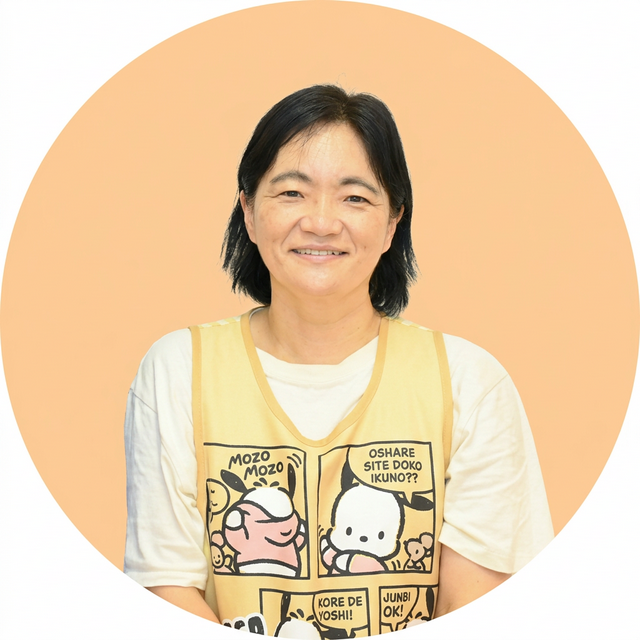
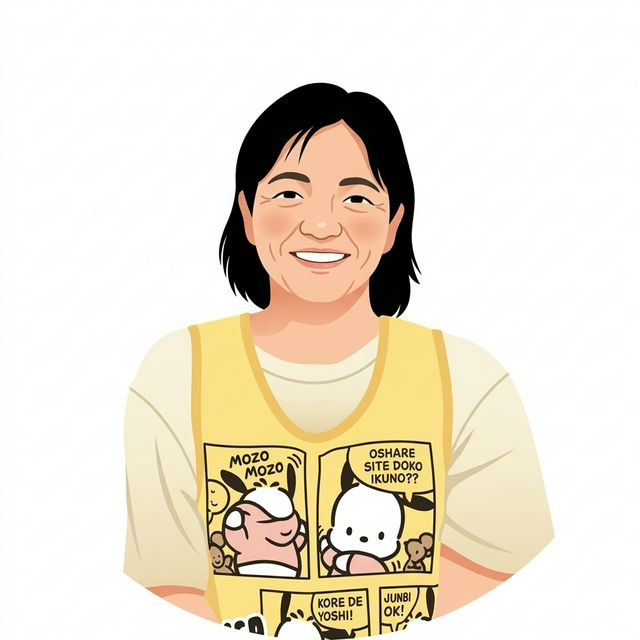
feat: design updates to about.html and index.html, change manager photos to illustrations

diff --git a/index.html b/index.html
@@ -71,43 +71,31 @@
         <p>一人ひとりの笑顔がかがやく場所</p>
       </section>
 
-        <!-- Latest News Section -->
-        <section id="news" class="card fade-in">
-          <h2 class="card-title">
-            <i class="fa-solid fa-bell" style="color: var(--primary-color);"></i> 最新ニュース
-          </h2>
-          <div class="news-list-container">
-            <div class="news-item">
-              <span class="news-date">2026.04.01</span>
-              <span class="news-title">新しいホームページを公開しました！</span>
-            </div>
-            <div class="news-item">
-              <span class="news-date">2026.03.25</span>
-              <span class="news-title">令和8年度 入園見学会のお知らせ</span>
-            </div>
-            <div class="news-item">
-              <span class="news-date">2026.03.10</span>
-              <span class="news-title">春の親子遠足について</span>
-            </div>
-            <div class="news-item">
-              <span class="news-date">2026.02.28</span>
-              <span class="news-title">「すくすく通信」3月号を掲載しました</span>
-            </div>
+      <!-- Latest News Section -->
+      <section id="news" class="card fade-in">
+        <h2 class="card-title">
+          <i class="fa-solid fa-bell" style="color: var(--primary-color);"></i> 最新ニュース
+        </h2>
+        <div class="news-list-container">
+          <div class="news-item">
+            <span class="news-date">2026.04.01</span>
+            <span class="news-title">新しいホームページを公開しました！</span>
           </div>
-        </section>
+        </div>
+      </section>
 
-        <!-- Instagram Section -->
-        <section id="instagram" class="card fade-in" style="padding-left: 1rem; padding-right: 1rem;">
-          <div class="insta-header">
-            <h2 class="insta-title-main"><i class="fa-brands fa-instagram"></i>日々の様子はInstagramで！</h2>
-          </div>
+      <!-- Instagram Section -->
+      <section id="instagram" class="card fade-in" style="padding-left: 1rem; padding-right: 1rem;">
+        <div class="insta-header">
+          <h2 class="insta-title-main"><i class="fa-brands fa-instagram"></i>日々の様子はInstagramで！</h2>
+        </div>
 
-          <div class="elfsight-app-5ca52e6a-f6e7-4073-9e24-0e0b05ff27c8" data-elfsight-app-lazy></div>
+        <div class="elfsight-app-5ca52e6a-f6e7-4073-9e24-0e0b05ff27c8" data-elfsight-app-lazy></div>
 
-          <a href="https://www.instagram.com/sukusukuseya/" class="btn btn-instagram" target="_blank">
-            <i class="fa-brands fa-instagram"></i> 公式Instagramを見る
-          </a>
-        </section>
+        <a href="https://www.instagram.com/sukusukuseya/" class="btn btn-instagram" target="_blank">
+          <i class="fa-brands fa-instagram"></i> 公式Instagramを見る
+        </a>
+      </section>
 
       <!-- Access Section -->
       <!-- Access Section -->

diff --git a/about.html b/about.html
@@ -116,7 +116,8 @@
         <div class="manager-profile" style="margin-bottom: 3rem;">
           <img src="images/manabu.png" alt="管理者 学先生" class="manager-avatar">
           <h3 style="font-size: 1.3rem; margin-bottom: 0.5rem;">管理者：学（がく）先生</h3>
-          <p style="font-weight: bold; color: var(--accent-color); margin-top: 0; margin-bottom: 1rem; font-size: 0.95rem;">
+          <p
+            style="font-weight: bold; color: var(--accent-color); margin-top: 0; margin-bottom: 1rem; font-size: 0.95rem;">
             座右の銘：「笑う門には福来たる」</p>
           <p style="margin-top: 0; font-size: 0.95rem; text-align: left;">
             「子どもたちが安心して笑顔で過ごせる場所を作るのが私の使命です。保護者の皆様も、いつでも笑顔でご相談にいらしてくださいね！」
@@ -124,9 +125,10 @@
         </div>
 
         <div class="manager-profile" style="margin-top: 0; margin-bottom: 0;">
-          <img src="images/miho.png" alt="園長 二階堂美保先生" class="manager-avatar">
-          <h3 style="font-size: 1.3rem; margin-bottom: 0.5rem;">園長：二階堂美保先生</h3>
-          <p style="font-weight: bold; color: var(--accent-color); margin-top: 0; margin-bottom: 1rem; font-size: 0.95rem;">
+          <img src="images/miho.png" alt="園長：美保（みほ）先生" class="manager-avatar">
+          <h3 style="font-size: 1.3rem; margin-bottom: 0.5rem;">園長：美保（みほ）先生</h3>
+          <p
+            style="font-weight: bold; color: var(--accent-color); margin-top: 0; margin-bottom: 1rem; font-size: 0.95rem;">
             座右の銘：「子どもは社会の宝」</p>
           <p style="margin-top: 0; font-size: 0.95rem; text-align: left;">
             「小さな『できた！』を一緒にたくさん見つけていきたいです。家庭的な温かい雰囲気の中で、一人ひとりに寄り添う保育を心がけています。」
@@ -137,7 +139,8 @@
       <!-- Staff System Section (White BG) -->
       <section id="staff" class="card fade-in">
         <h3 class="card-title" style="margin-bottom: 2.5rem;">職員体制</h3>
-        <table style="width: 100%; font-size: 0.9rem; text-align: left; border-collapse: collapse; margin-top: 0; margin-bottom: 1rem;">
+        <table
+          style="width: 100%; font-size: 0.9rem; text-align: left; border-collapse: collapse; margin-top: 0; margin-bottom: 1rem;">
           <tr style="border-bottom: 1px dashed #ddd;">
             <th style="padding: 0.5rem 0;">園長</th>
             <td style="padding: 0.5rem 0; text-align: right;">1名</td>
